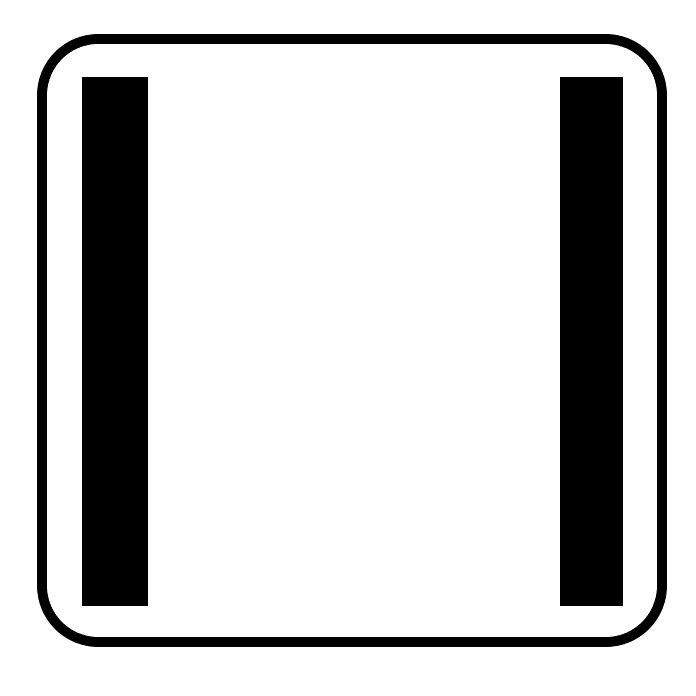
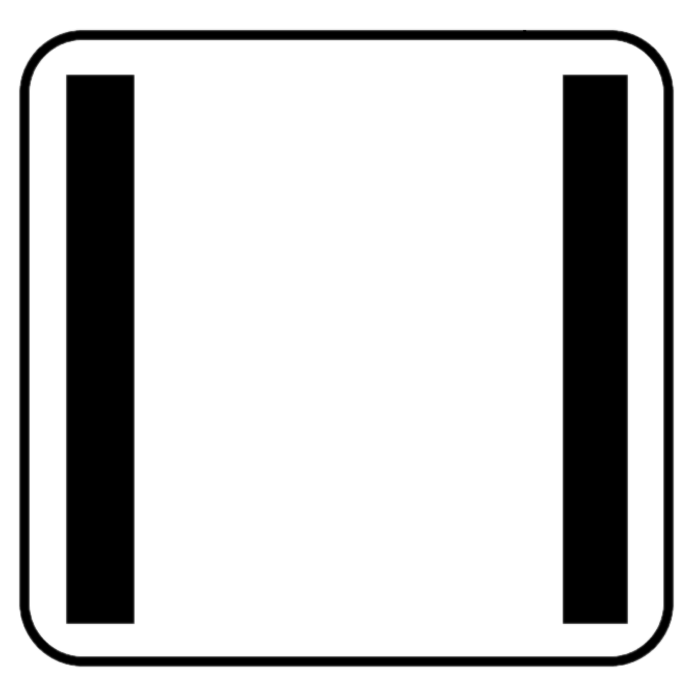
Create ElevatorFrame

Changed region(s): [[0.0302, 0.0302, 0.9655, 0.9655]]

diff --git a/src/elevator/gui/ElevatorPanel.java b/src/elevator/gui/ElevatorPanel.java
@@ -4,6 +4,8 @@ import java.awt.Color;
 import java.awt.Font;
 
 import javax.swing.*;
+import javax.swing.border.EmptyBorder;
+
 import floor.gui.FloorLampPanel;
 
 public class ElevatorPanel extends JPanel {
@@ -11,40 +13,29 @@ public class ElevatorPanel extends JPanel {
 	private FloorLampPanel floorLamp;
 	private Door door;
 	private JLabel elevatorName;
-	private static Font font = new Font("Dialog", Font.BOLD, 20);
+	private static final Font font = new Font("Dialog", Font.BOLD, 24);
 	
 	public ElevatorPanel(int elevatorNum) {
 		// Setup Elevator header
 		elevatorName = new JLabel("Elevator " + elevatorNum);
 		elevatorName.setFont(font);
 		elevatorName.setAlignmentX(CENTER_ALIGNMENT);
-		elevatorName.setBorder(BorderFactory.createLineBorder(Color.black));
 		// Setup Elevator's Direction Lamp
 		directionLamp = new DirectionLampPanel();
 		directionLamp.setAlignmentX(CENTER_ALIGNMENT);
-		directionLamp.setBorder(BorderFactory.createLineBorder(Color.black));
 		// Setup Elevator's Floor Lamp
 		floorLamp = new FloorLampPanel();
 		floorLamp.setAlignmentX(CENTER_ALIGNMENT);
-		floorLamp.setBorder(BorderFactory.createLineBorder(Color.black));
+		floorLamp.setBorder(new EmptyBorder(0, 5, 0, 5));
 		// Setup Elevator's Door
 		door = new Door();
 		door.setAlignmentX(CENTER_ALIGNMENT);
-		door.setBorder(BorderFactory.createLineBorder(Color.black));
 		// Align components in the panel
 		this.setLayout(new BoxLayout(this, BoxLayout.Y_AXIS));
 		this.add(elevatorName);
 		this.add(directionLamp);
 		this.add(door);
 		this.add(floorLamp);
-	}
-	
-	public static void main(String args[]) {
-		ElevatorPanel p = new ElevatorPanel(1);
-		JFrame frame = new JFrame();
-		frame.setDefaultCloseOperation(JFrame.EXIT_ON_CLOSE);
-		frame.setSize(600, 600);
-		frame.getContentPane().add(p);
-		frame.setVisible(true);
+		this.setBorder(BorderFactory.createLineBorder(Color.black, 3));
 	}
 }

diff --git a/src/elevator/gui/ElevatorFrame.java b/src/elevator/gui/ElevatorFrame.java
@@ -1,0 +1,34 @@
+package elevator.gui;
+
+import java.awt.Container;
+import java.awt.GridLayout;
+
+import javax.swing.*;
+
+public class ElevatorFrame extends JFrame {
+	private JFrame frame;
+	private ElevatorPanel[] elevatorPanels;
+	
+	public ElevatorFrame(int numElevators) {
+		elevatorPanels = new ElevatorPanel[numElevators];
+		frame = new JFrame("Elevators");
+		frame.setDefaultCloseOperation(JFrame.EXIT_ON_CLOSE);
+		frame.setSize(1000, 1000);
+		// Using gridlayout for frame so that elevators will take up max space and only be in one row
+		Container frameContent = frame.getContentPane();
+		frameContent.setLayout(new GridLayout(1, numElevators));
+		for(int i = 0; i < numElevators; i++) {
+			elevatorPanels[i] = new ElevatorPanel(i);
+			frameContent.add(elevatorPanels[i]);
+		}
+		frame.setVisible(true);
+	}
+	
+	public ElevatorPanel getElevatorPanel(int elevatorNum) {
+		return elevatorPanels[elevatorNum];
+	}
+	public static void main(String[] args) {
+		ElevatorFrame frame = new ElevatorFrame(3);
+	}
+
+}

diff --git a/src/floor/gui/FloorLamp.java b/src/floor/gui/FloorLamp.java
@@ -1,6 +1,7 @@
 package floor.gui;
 
 import java.awt.Color;
+import java.awt.Font;
 
 import javax.swing.BorderFactory;
 import javax.swing.JLabel;
@@ -8,7 +9,7 @@ import javax.swing.JLabel;
 public class FloorLamp extends JLabel {
 
 	private int floor;
-
+	private static final Font font = new Font("Dialog", Font.BOLD, 20);
 	/**
 	 * Creates a FloorLamp instance
 	 * 
@@ -19,6 +20,7 @@ public class FloorLamp extends JLabel {
 		this.setHorizontalAlignment(JLabel.CENTER);
 		this.setVerticalAlignment(JLabel.CENTER);
 		this.floor = floor;
+		this.setFont(font);
 		this.setBorder(BorderFactory.createLineBorder(Color.BLACK));
 		this.setOpaque(true); // Only way color change is seen on Mac OS
 		this.setSize(30, 30);

diff --git a/src/elevator/gui/Door.java b/src/elevator/gui/Door.java
@@ -1,5 +1,6 @@
 package elevator.gui;
 
+import java.awt.Font;
 import java.awt.Image;
 
 import javax.swing.Icon;
@@ -11,7 +12,7 @@ import javax.swing.JLabel;
 public class Door extends JLabel {
 	private static final int WIDTH = 100;
 	private static final int HEIGHT = 100;
-	
+	private static final Font font = new Font("Dialog", Font.BOLD, 16);
 	/**
 	 * Creates a direction button lamp
 	 * 
@@ -21,6 +22,7 @@ public class Door extends JLabel {
 	public Door() {
 		this.setOpaque(true);
 		this.setBounds(0, 0, WIDTH, HEIGHT);
+		this.setFont(font);
 		this.setHorizontalAlignment(JLabel.CENTER);
 		this.setHorizontalTextPosition(JLabel.CENTER);
 		this.setVerticalTextPosition(JLabel.BOTTOM);

diff --git a/src/elevator/gui/DirectionLamp.java b/src/elevator/gui/DirectionLamp.java
@@ -27,7 +27,7 @@ public class DirectionLamp extends JLabel {
 		this.source = source;
 		this.setBorder(BorderFactory.createLineBorder(Color.BLACK));
 		this.setOpaque(true); // Only way color change is seen on Mac OS
-		this.setBounds(0, 0, 30, 30);
+		this.setBounds(0, 0, 50, 50);
 		this.setIcon(resizeIcon(new ImageIcon(source), this.getWidth(), this.getHeight()));
 	}
 

diff --git a/src/elevator/gui/DirectionLampPanel.java b/src/elevator/gui/DirectionLampPanel.java
@@ -1,10 +1,8 @@
 package elevator.gui;
 
 import java.awt.Color;
-import java.awt.GridLayout;
 
 import javax.swing.BoxLayout;
-import javax.swing.JFrame;
 import javax.swing.JPanel;
 
 import common.Constants;
